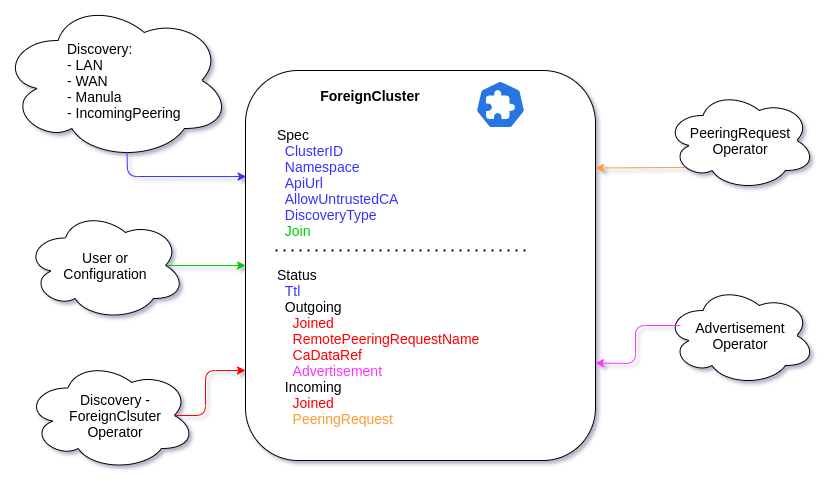
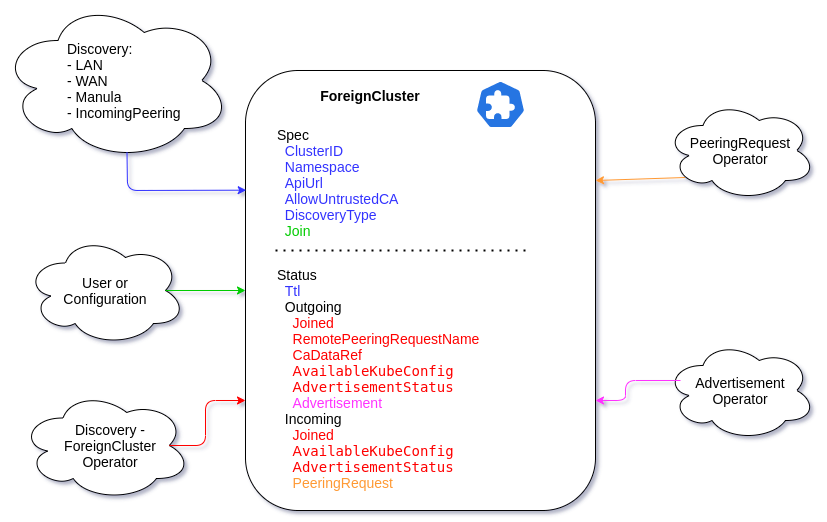
ForeignCluster status

diff --git a/internal/discovery/foreign-cluster-operator/foreign-cluster-controller.go b/internal/discovery/foreign-cluster-operator/foreign-cluster-controller.go
@@ -68,7 +68,10 @@ func (r *ForeignClusterReconciler) Reconcile(req ctrl.Request) (ctrl.Result, err
 	fc, ok := tmp.(*discoveryv1.ForeignCluster)
 	if !ok {
 		klog.Error("created object is not a ForeignCluster")
-		return ctrl.Result{}, goerrors.New("created object is not a ForeignCluster")
+		return ctrl.Result{
+			Requeue:      true,
+			RequeueAfter: r.RequeueAfter,
+		}, goerrors.New("created object is not a ForeignCluster")
 	}
 
 	requireUpdate := false
@@ -90,27 +93,85 @@ func (r *ForeignClusterReconciler) Reconcile(req ctrl.Request) (ctrl.Result, err
 
 	// check if linked advertisement exists
 	if fc.Status.Outgoing.Advertisement != nil {
-		_, err = r.advertisementClient.Resource("advertisements").Get(fc.Status.Outgoing.Advertisement.Name, metav1.GetOptions{})
+		tmp, err = r.advertisementClient.Resource("advertisements").Get(fc.Status.Outgoing.Advertisement.Name, metav1.GetOptions{})
 		if errors.IsNotFound(err) {
 			fc.Status.Outgoing.Advertisement = nil
+			fc.Status.Outgoing.AvailableIdentity = false
+			fc.Status.Outgoing.AdvertisementStatus = ""
 			fc.Status.Outgoing.Joined = false
 			fc.Status.Outgoing.RemotePeeringRequestName = ""
 			fc.Spec.Join = false
 			requireUpdate = true
+		} else if err == nil {
+			// check if kubeconfig secret exists
+			adv, ok := tmp.(*protocolv1.Advertisement)
+			if !ok {
+				err = goerrors.New("retrieved object is not an Advertisement")
+				klog.Error(err)
+				return ctrl.Result{
+					Requeue:      true,
+					RequeueAfter: r.RequeueAfter,
+				}, err
+			}
+			if adv.Spec.KubeConfigRef.Name != "" && adv.Spec.KubeConfigRef.Namespace != "" {
+				_, err = r.crdClient.Client().CoreV1().Secrets(adv.Spec.KubeConfigRef.Namespace).Get(context.TODO(), adv.Spec.KubeConfigRef.Name, metav1.GetOptions{})
+				available := err == nil
+				if fc.Status.Outgoing.AvailableIdentity != available {
+					fc.Status.Outgoing.AvailableIdentity = available
+					requireUpdate = true
+				}
+			}
+
+			// update advertisement status
+			status := adv.Status.AdvertisementStatus
+			if status != fc.Status.Outgoing.AdvertisementStatus {
+				fc.Status.Outgoing.AdvertisementStatus = status
+				requireUpdate = true
+			}
 		}
 	}
 
 	// check if linked peeringRequest exists
 	if fc.Status.Incoming.PeeringRequest != nil {
-		_, err = r.crdClient.Resource("peeringrequests").Get(fc.Status.Incoming.PeeringRequest.Name, metav1.GetOptions{})
+		tmp, err = r.crdClient.Resource("peeringrequests").Get(fc.Status.Incoming.PeeringRequest.Name, metav1.GetOptions{})
 		if errors.IsNotFound(err) {
 			fc.Status.Incoming.PeeringRequest = nil
+			fc.Status.Incoming.AvailableIdentity = false
+			fc.Status.Incoming.AdvertisementStatus = ""
 			fc.Status.Incoming.Joined = false
 			requireUpdate = true
 		} else if err == nil && !fc.Status.Incoming.Joined {
 			// PeeringRequest exists, set flag to true
 			fc.Status.Incoming.Joined = true
 			requireUpdate = true
+		}
+
+		if err == nil {
+			// check if kubeconfig secret exists
+			pr, ok := tmp.(*discoveryv1.PeeringRequest)
+			if !ok {
+				err = goerrors.New("retrieved object is not a PeeringRequest")
+				klog.Error(err)
+				return ctrl.Result{
+					Requeue:      true,
+					RequeueAfter: r.RequeueAfter,
+				}, err
+			}
+			if pr.Spec.KubeConfigRef != nil && pr.Spec.KubeConfigRef.Name != "" && pr.Spec.KubeConfigRef.Namespace != "" {
+				_, err = r.crdClient.Client().CoreV1().Secrets(pr.Spec.KubeConfigRef.Namespace).Get(context.TODO(), pr.Spec.KubeConfigRef.Name, metav1.GetOptions{})
+				available := err == nil
+				if fc.Status.Incoming.AvailableIdentity != available {
+					fc.Status.Incoming.AvailableIdentity = available
+					requireUpdate = true
+				}
+			}
+
+			// update advertisement status
+			status := pr.Status.AdvertisementStatus
+			if status != fc.Status.Incoming.AdvertisementStatus {
+				fc.Status.Incoming.AdvertisementStatus = status
+				requireUpdate = true
+			}
 		}
 	}
 

diff --git a/api/discovery/v1/foreigncluster_types.go b/api/discovery/v1/foreigncluster_types.go
@@ -64,11 +64,15 @@ type Outgoing struct {
 	RemotePeeringRequestName string              `json:"remote-peering-request-name,omitempty"`
 	CaDataRef                *v1.ObjectReference `json:"caDataRef,omitempty"`
 	Advertisement            *v1.ObjectReference `json:"advertisement,omitempty"`
+	AvailableIdentity        bool                `json:"availableIdentity,omitempty"`
+	AdvertisementStatus      string              `json:"advertisementStatus,omitempty"`
 }
 
 type Incoming struct {
-	Joined         bool                `json:"joined"`
-	PeeringRequest *v1.ObjectReference `json:"peeringRequest,omitempty"`
+	Joined              bool                `json:"joined"`
+	PeeringRequest      *v1.ObjectReference `json:"peeringRequest,omitempty"`
+	AvailableIdentity   bool                `json:"availableIdentity,omitempty"`
+	AdvertisementStatus string              `json:"advertisementStatus,omitempty"`
 }
 
 // +kubebuilder:object:root=true

diff --git a/api/discovery/v1/zz_generated.deepcopy.go b/api/discovery/v1/zz_generated.deepcopy.go
@@ -21,7 +21,7 @@ package v1
 
 import (
 	corev1 "k8s.io/api/core/v1"
-	runtime "k8s.io/apimachinery/pkg/runtime"
+	"k8s.io/apimachinery/pkg/runtime"
 )
 
 // DeepCopyInto is an autogenerated deepcopy function, copying the receiver, writing into out. in must be non-nil.
@@ -131,6 +131,21 @@ func (in *Incoming) DeepCopy() *Incoming {
 		return nil
 	}
 	out := new(Incoming)
+	in.DeepCopyInto(out)
+	return out
+}
+
+// DeepCopyInto is an autogenerated deepcopy function, copying the receiver, writing into out. in must be non-nil.
+func (in *LoadConfigError) DeepCopyInto(out *LoadConfigError) {
+	*out = *in
+}
+
+// DeepCopy is an autogenerated deepcopy function, copying the receiver, creating a new LoadConfigError.
+func (in *LoadConfigError) DeepCopy() *LoadConfigError {
+	if in == nil {
+		return nil
+	}
+	out := new(LoadConfigError)
 	in.DeepCopyInto(out)
 	return out
 }

diff --git a/test/unit/discovery/discovery_test.go b/test/unit/discovery/discovery_test.go
@@ -226,6 +226,7 @@ func testJoin(t *testing.T) {
 	assert.Assert(t, remoteFcList.Items[0].Spec.DiscoveryType == v1.IncomingPeeringDiscovery, "FC on remote cluster has not correct DiscoveryType")
 	assert.Assert(t, remoteFcList.Items[0].Status.Incoming.PeeringRequest != nil, "PeeringRequest reference is not set")
 	assert.Assert(t, remoteFcList.Items[0].Status.Incoming.Joined, "IncomingJoin flag not set on remote cluster")
+	assert.Assert(t, remoteFcList.Items[0].Status.Incoming.AvailableIdentity, "AvailableIdentity not correctly set on remote cluster")
 
 	// add local advertisement related to ForeignCluster,
 	// we have to add it manually because we have no Advertisement Operator running in this test
